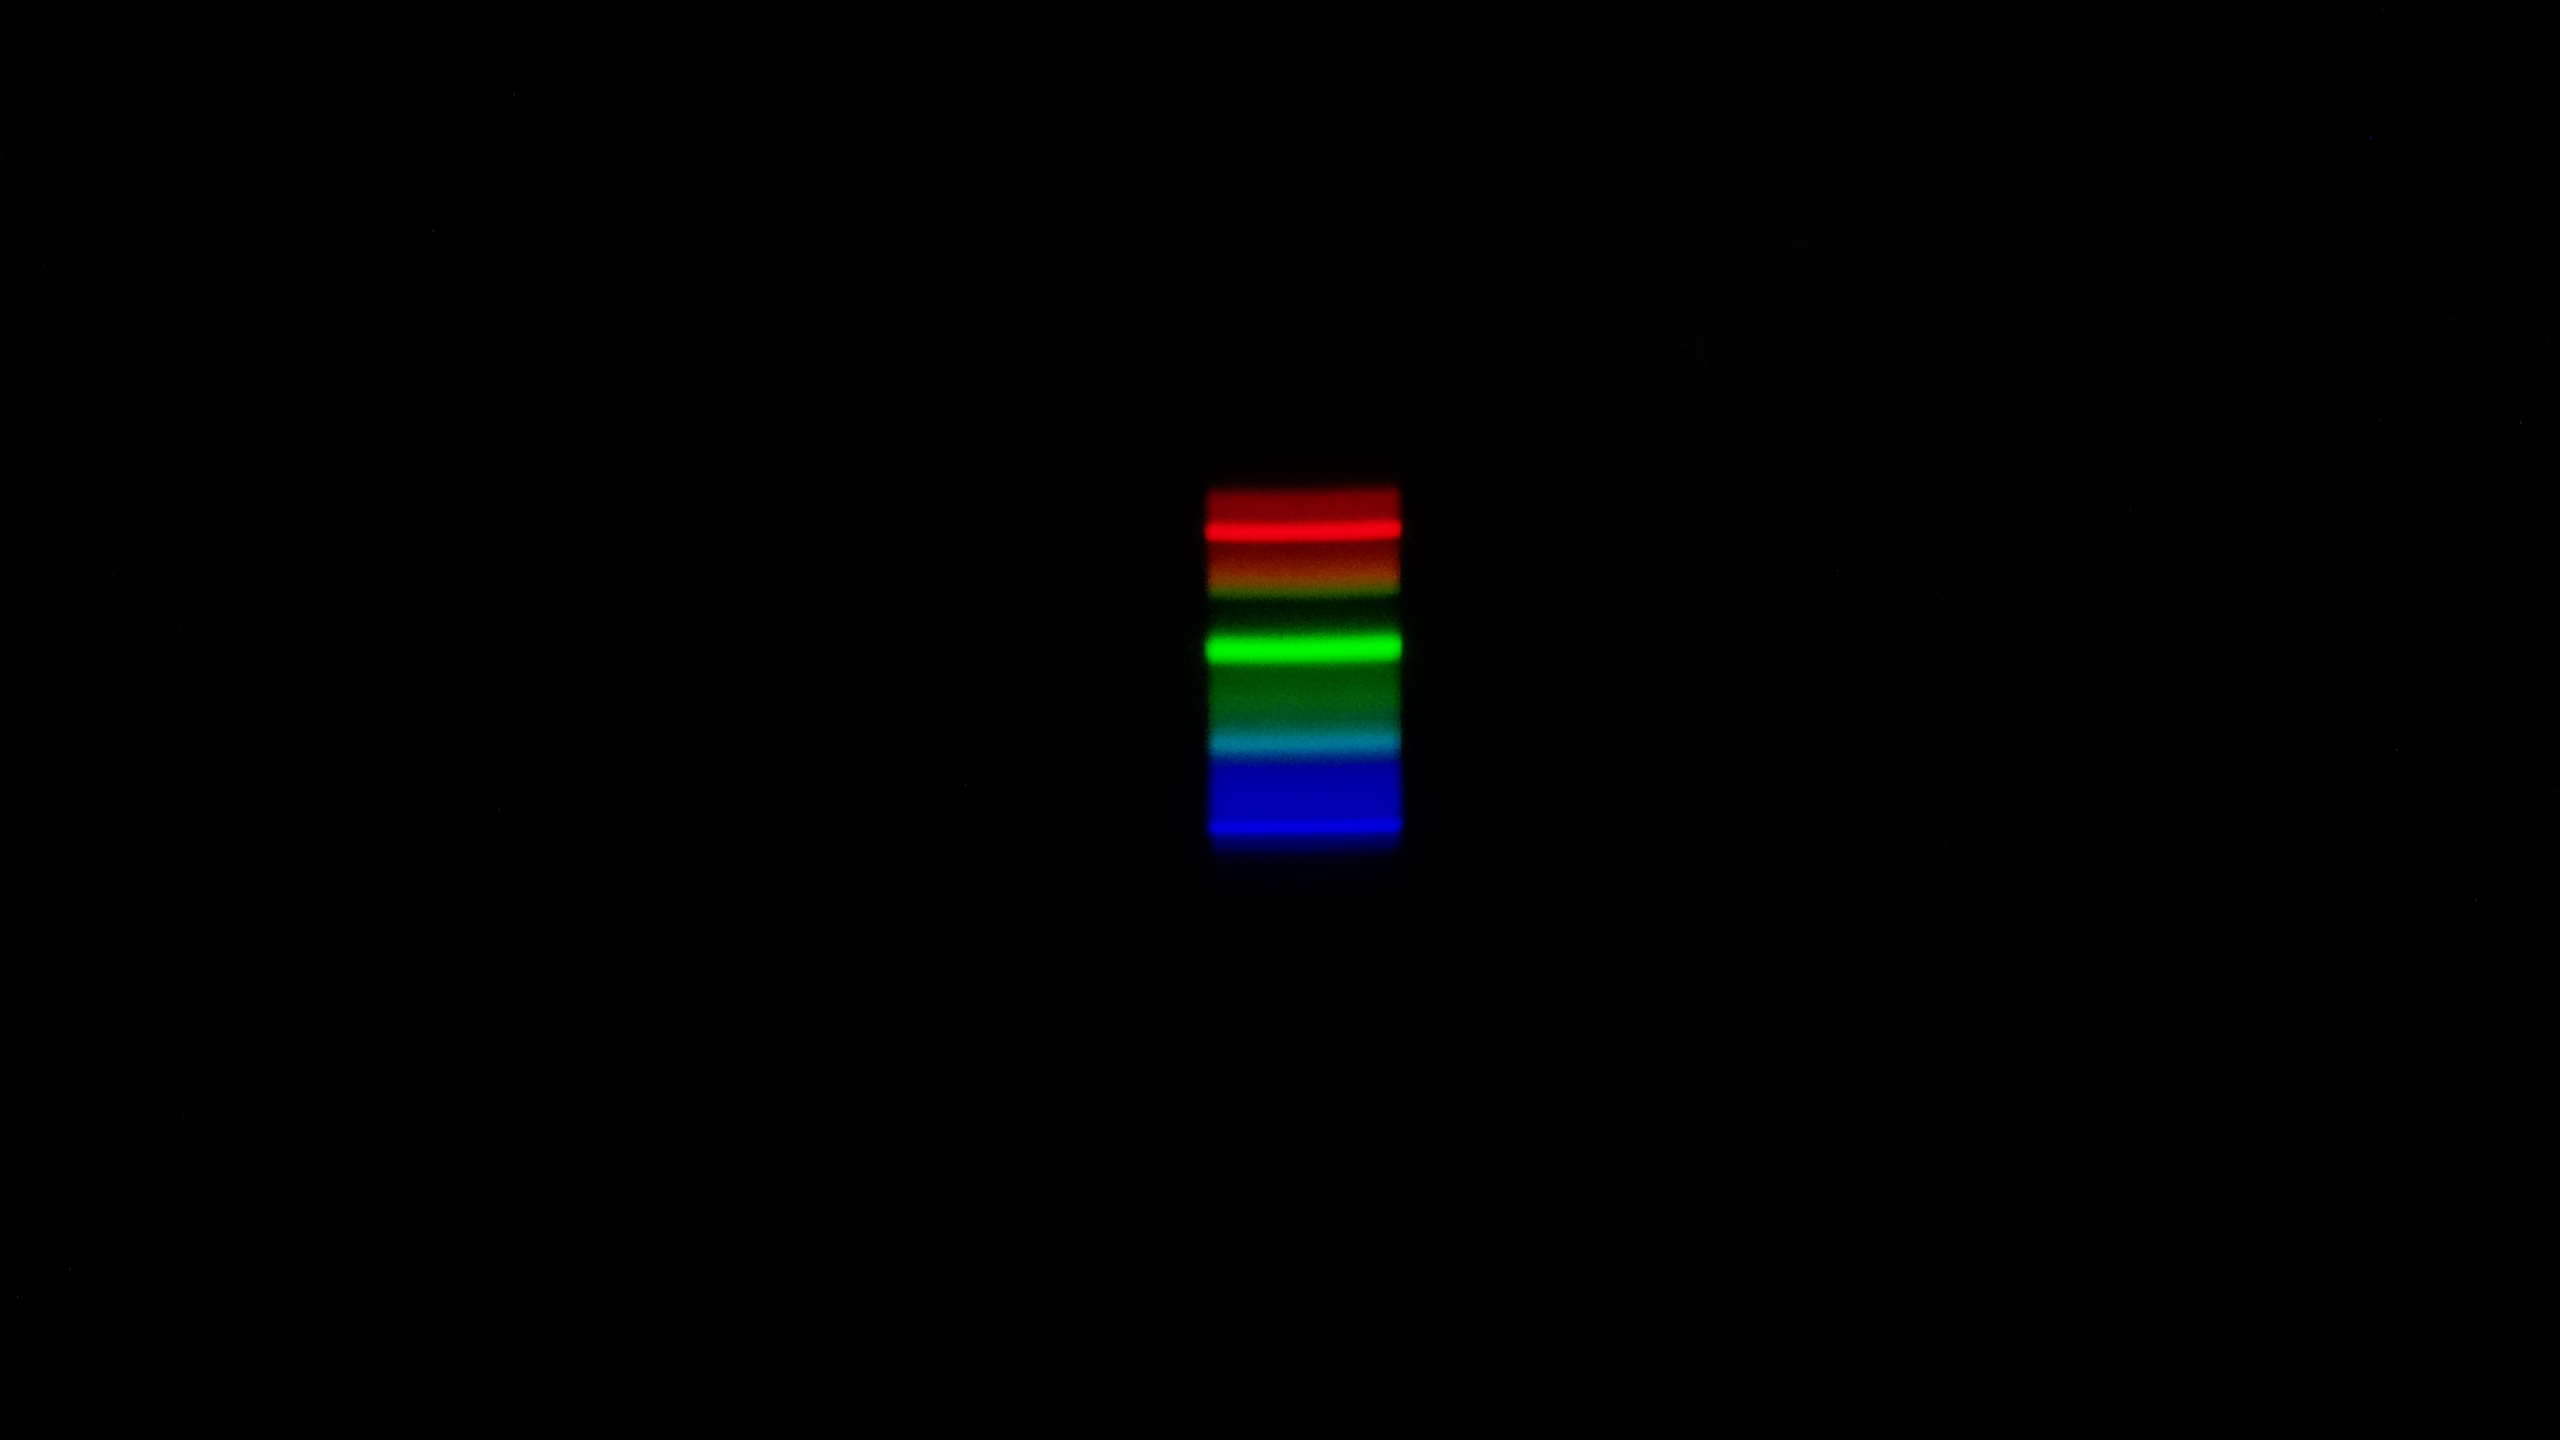
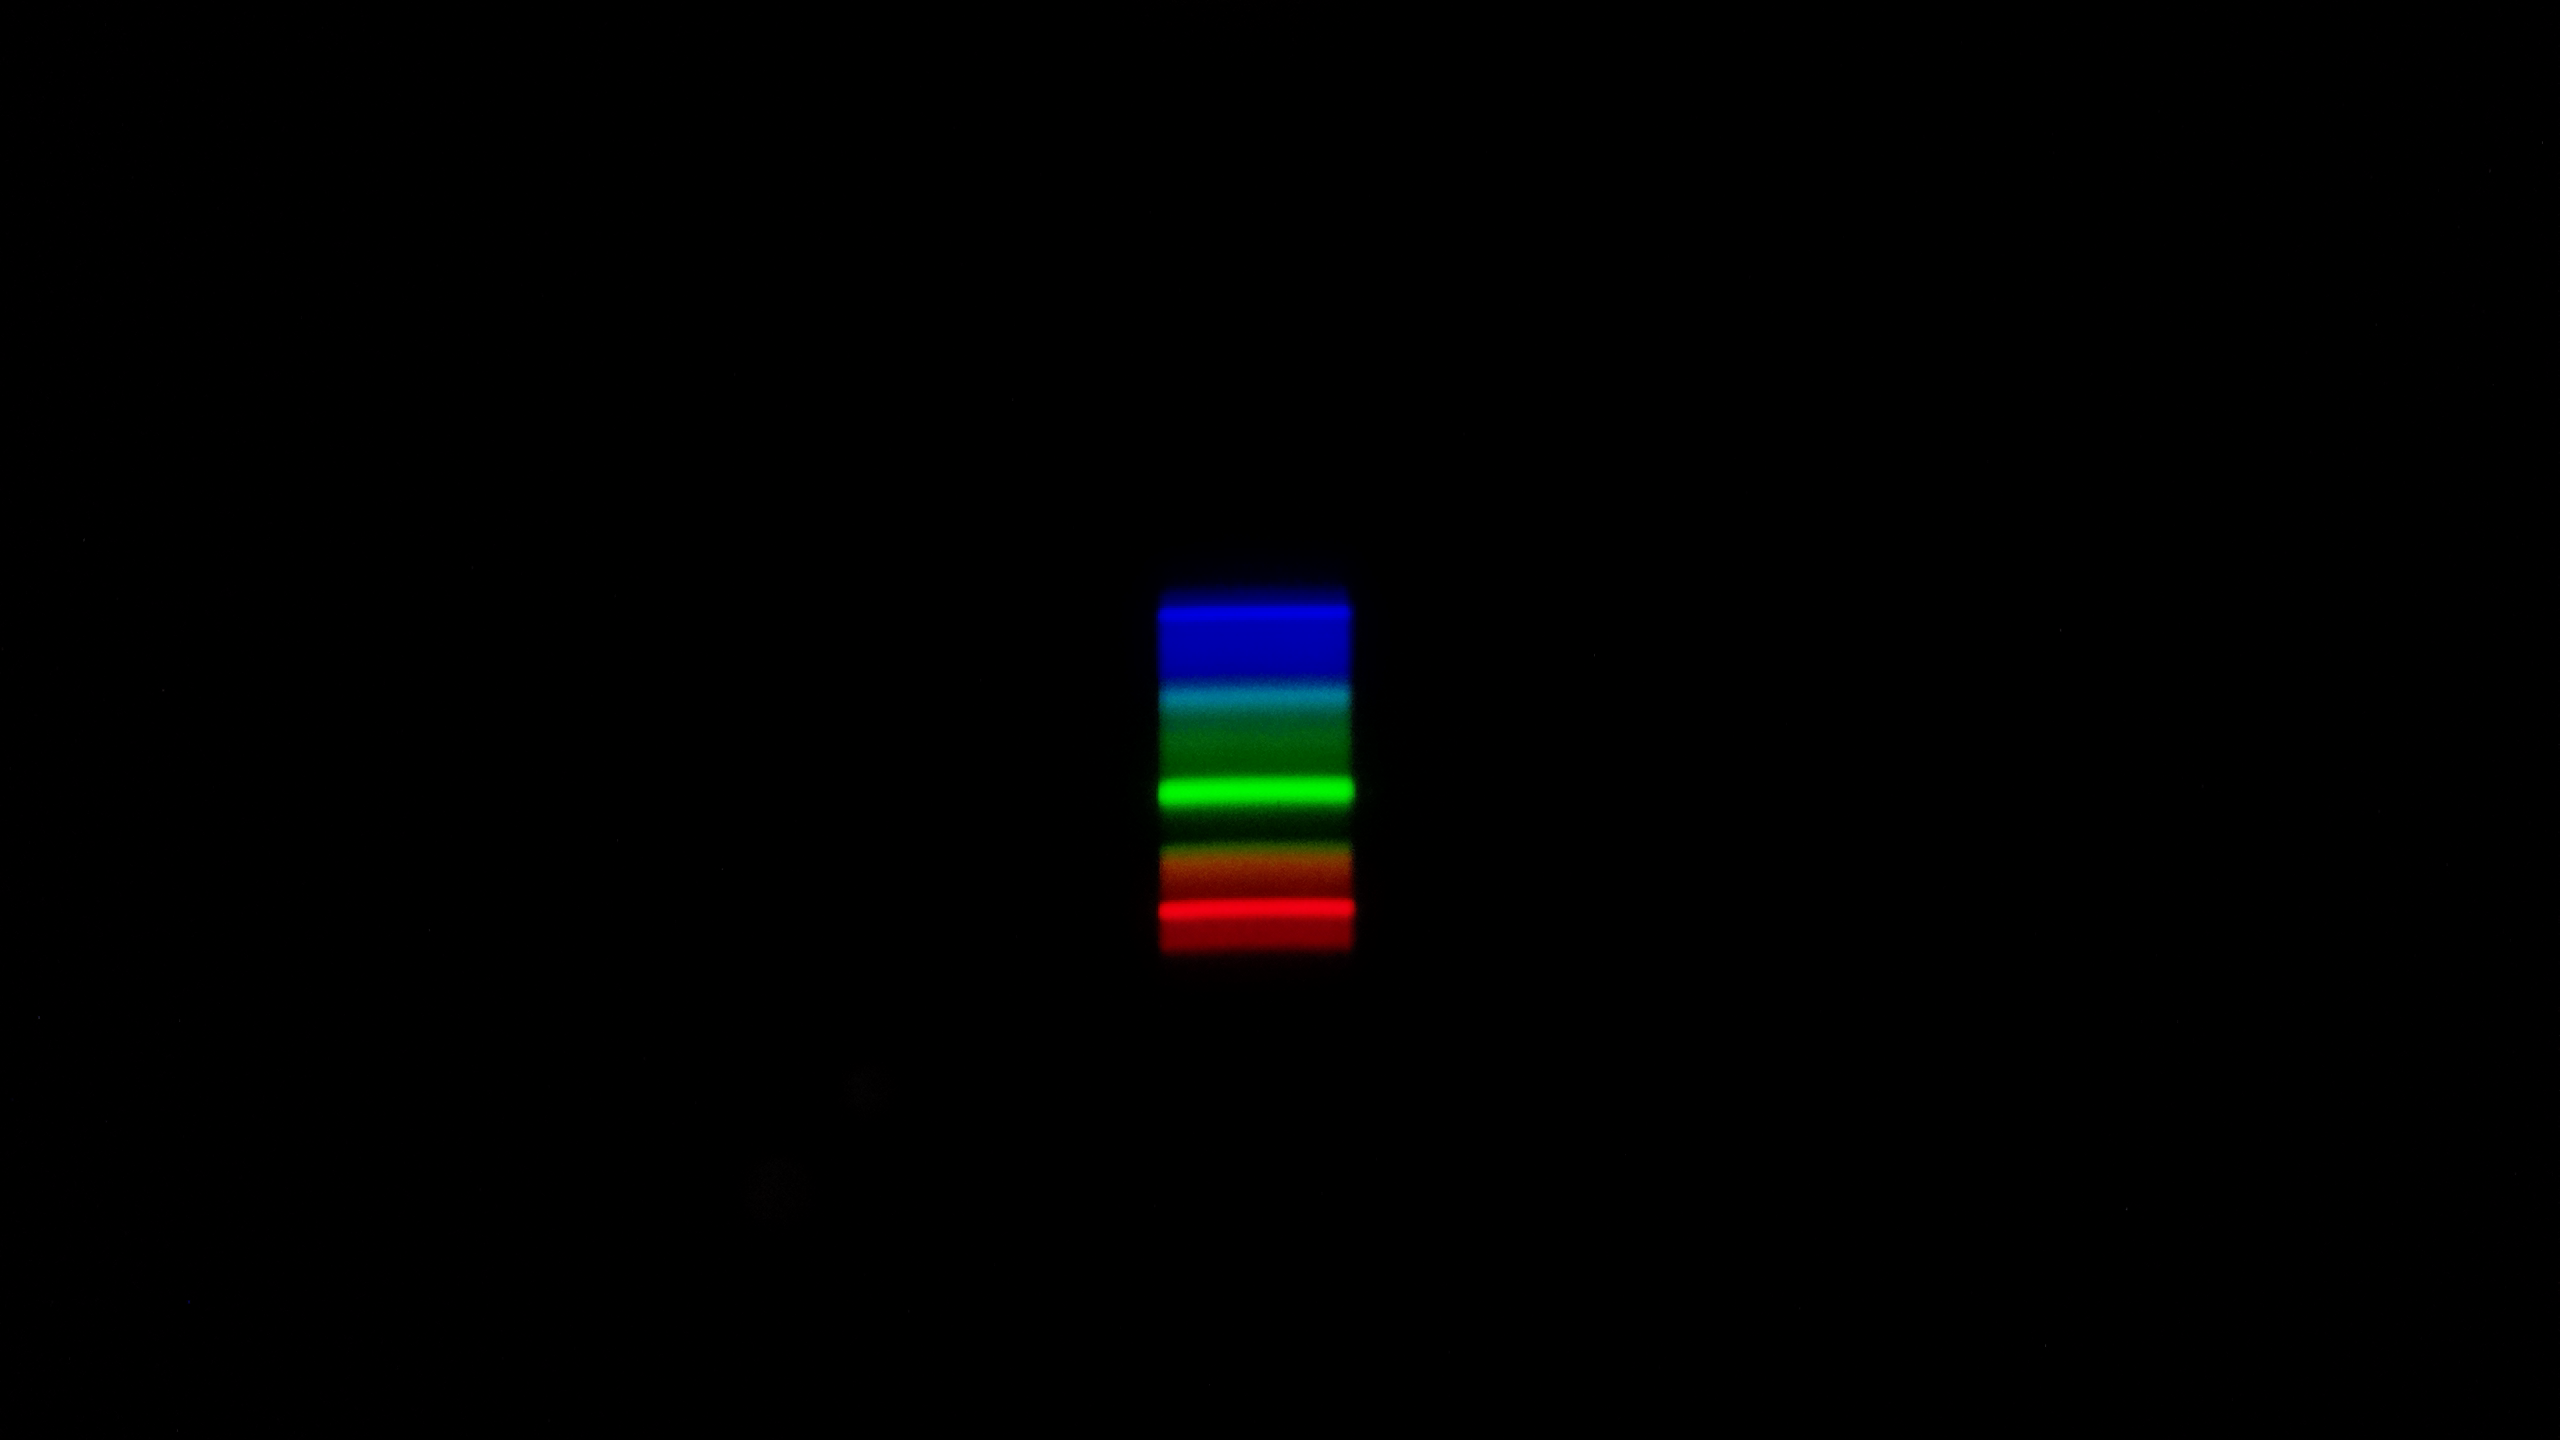
processing done

Changed region(s): [[0.4375, 0.3125, 0.5625, 0.6875]]

diff --git a/scripts/lightProcessing.py b/scripts/lightProcessing.py
@@ -11,20 +11,20 @@ yellowArray = readIntensity("light/data/yellow-tungsten.png", "light/plots/yello
 greenArray = readIntensity("light/data/green-tungsten.png", "light/plots/green-tungsten.png", "лампа накаливания", "зелёный лист")
 whiteArray = readIntensity("light/data/white-tungsten.png", "light/plots/white-tungsten.png", "лампа накаливания", "белый лист")
 
-redPike = np.argmax(calibrationArray)
-for i in range (redPike - 20, redPike + 20):
+bluePike = np.argmax(calibrationArray)
+for i in range (bluePike - 20, bluePike + 20):
     calibrationArray[i] = 0
-greenPike = np.argmax(calibrationArray)
+redPike = np.argmax(calibrationArray)
 
 refRedPike = 610.0
-refGreenPike = 545.0
-length = (650 * (refRedPike - refGreenPike))/(redPike - greenPike)
-maxLength = (greenPike * length)/650 + refGreenPike
-minLength = refGreenPike - (greenPike * length)/650
+refBluePike = 490.0
+length = (650 * (refRedPike - refBluePike))/(redPike - bluePike)
+maxLength = (bluePike * length)/650 + refBluePike
+minLength = refBluePike - (bluePike * length)/650
 maxX = math.ceil(maxLength / 20.0) * 20
 minX = math.floor(minLength / 20.0) * 20
 maxIntensity = max(np.amax(whiteArray), np.amax(blueArray), np.amax(redArray), np.amax(yellowArray), np.amax(greenArray))
-maxY = math.ceil(maxIntensity / 10.0) * 10
+maxY = math.ceil(maxIntensity / 20.0) * 20
 minY = -7
 waveLengthArray = np.arange(minLength, maxLength, (maxLength - minLength)/calibrationArray.size)
 
@@ -92,7 +92,7 @@ ax.grid(which = 'minor', c = '#696969', linestyle = '--', linewidth = 1, alpha =
 
 plt.title('Интенсивность отражённого излучения', loc = 'center', fontsize = 24, wrap = True)
 plt.xlabel('Длина волны [нм]', fontsize = 18)
-plt.ylabel('Яркость', fontsize = 18)
+plt.ylabel('Альбедо', fontsize = 18)
 plt.legend(fontsize = 14)
 
 plt.savefig("light/plots/albedos.png")

diff --git a/scripts/lightFunctions.py b/scripts/lightFunctions.py
@@ -4,7 +4,7 @@ import imageio
 
 def readIntensity(photoName, plotName, lamp, surface):
     photo = imageio.imread(photoName)
-    cut = photo[400:1050, 1130:1290, 0:3].swapaxes(0, 1)
+    cut = photo[450:1100, 1170:1340, 0:3].swapaxes(0, 1)
     intensity = np.mean(cut, axis=(2, 0))
 
     fig = plt.figure(figsize=(10, 3), dpi=200)
